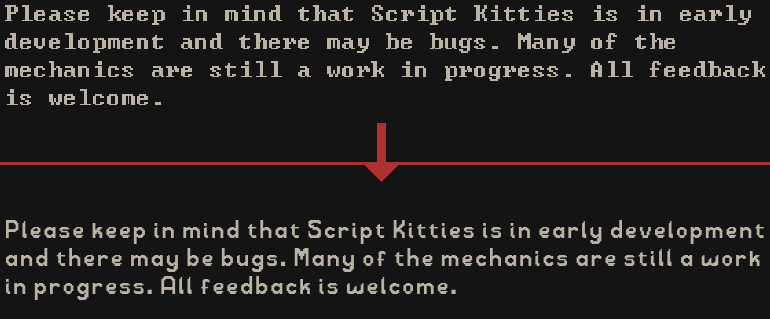
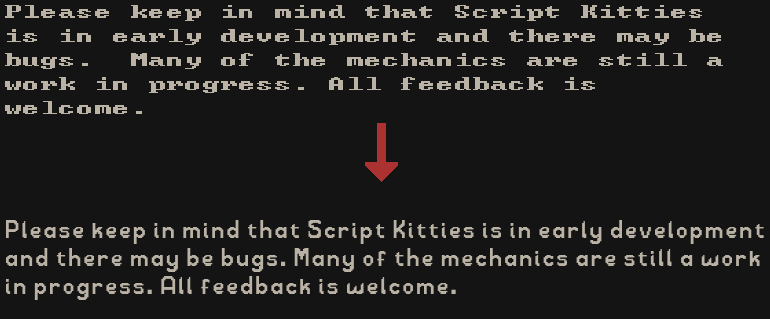
renamed

Changed region(s): [[0.0, 0.0, 0.9974, 0.3668], [0.4987, 0.5078, 1.0, 0.5361], [0.0, 0.5078, 0.4675, 0.5361]]

diff --git a/src/data/site.ts b/src/data/site.ts
@@ -1,4 +1,4 @@
-import scriptKittiesPreview from "@/res/scriptkitties/battle.png";
+import scriptKittiesPreview from "@/res/scriptkitties/hero.png";
 import stoneQuestPreview from "@/res/stonequestPreview.png";
 import afterPreview from "@/res/afterPreview.png";
 import clickFarmPreview from "@/res/clickfarm/cover.jpg";

diff --git a/src/content/devlog/2026-09-04-pax-polish.md b/src/content/devlog/2026-09-04-pax-polish.md
@@ -1,0 +1,28 @@
+---
+title: PAX Demo
+date: 2026-09-04
+excerpt: Launching Demo Version 0.1.0
+tags: [gamedev, script-kitties]
+hero: /devlog/pax-polish/pax-hero.png
+---
+
+Today kicks off PAX West, one of the largest gaming conventions in the world, where tens of thousands of people will gather in Seattle to meet gaming celebrities, attend panels, play games, and meet other fans. It also marks the first major milestone for Script Kitties - a playable demo. For the past two weeks, I've been working on that demo, squashing bugs and polishing the rougher edges. Surprisingly, a lot of time was also spent _removing_ stuff. The Script Kitties code base is over two years old at this point and has gone through a few different iterations and implementations. Some ideas  were no longer part of the game, but the code had stuck around. I also found some parts of the game I thought existed which turned out to be missing: the entire "Game Over" sequence was just a little `todo` sitting there.
+
+Most of this time, however, was spent improving the new player experience. I wanted to focus on the first minute of Script Kitties, before the actual gameplay even starts. I began with the very first thing the player would see - the splash screen - and tried to rush it just to throw something out there and move on to what I felt was more important.
+
+![The old unimaginative title](/devlog/pax-polish/title-old.png)
+
+I had hoped I could get away with something quick, but when I polled my friends it was clear that I couldn't use this. So, I took their feedback and came up with something that I felt painted a better picture of the experience the player would get:
+
+![The new, presumably better, title](/devlog/pax-polish/title-new.png)
+
+The next thing I turned my attention to was the font. I was using an old bitmap font that was scaling incorrectly, which caused a stretched appearance that made it difficult for most people to read. So I went on a hunt for a new font. In the past, I've relied on [DaFont](https://www.dafont.com/), but the licensing restrictions wouldn't support a commercial game, so I created my own font from scratch using this [pixel font maker](https://yal.cc/tools/pixel-font/) tool.
+
+![font example 1](/devlog/pax-polish/font-cmp-2.png)
+![font example 2](/devlog/pax-polish/font-cmp-3.png)
+
+Lastly, I began a round of balancing the creatures, abilities, and items by adjusting stats and damage numbers. I studied two of the main games that inspired Script Kitties - Pokemon and Divinity - to get an idea of what values to use. That helped me get started, but it's clear that this is going to require a ton of iteration. For now, I'm thinking in simple terms like, "How many hits should it take to kill this enemy?" and "How many enemies should it take to level up?", but I think that these are naive questions, and I'll be researching this topic deeper. For now the demo is available in a proof-of-concept state where things (should) work, but they may not always feel right.
+
+### How Can I Play the Demo?
+
+Right now, the demo is hosted on my website [here](/script-kitties) and playable in your browser. Eventually, it will be available on itch.io once I clear a few more hurdles.
